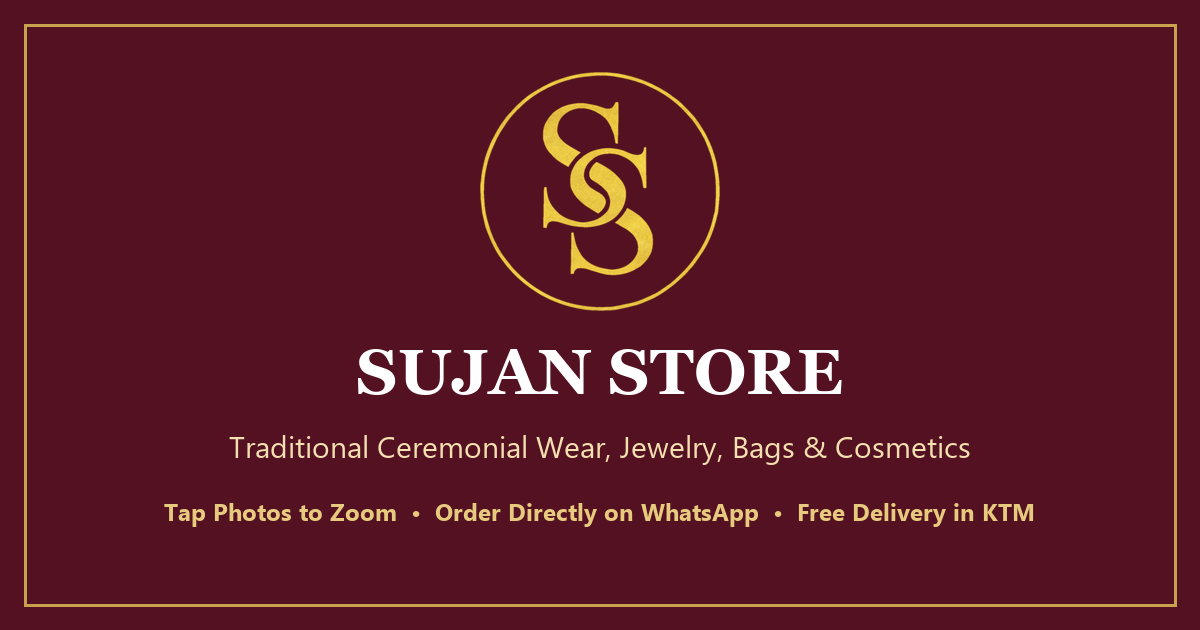
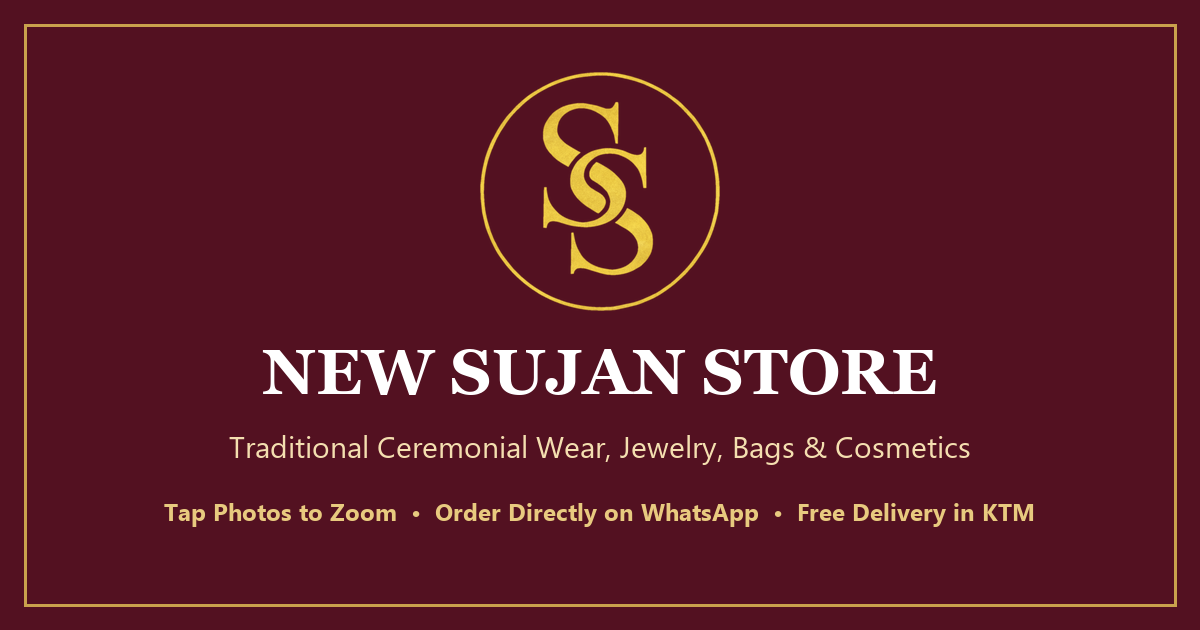
Rename store to New Sujan Store

Changed region(s): [[0.2158, 0.5429, 0.8017, 0.6333]]

diff --git a/index.html b/index.html
@@ -3,7 +3,7 @@
 <head>
 <meta charset="UTF-8" />
 <meta name="viewport" content="width=device-width, initial-scale=1.0" />
-<title>Sujan Store — Product Catalog</title>
+<title>New Sujan Store — Product Catalog</title>
 <meta name="description" content="Shop authentic Nepali ceremonial wear, Annaprasan Jari Malas, Makhmal bags, bridal sets, and cosmetics. Tap photos to zoom and order directly on WhatsApp." />
 <link rel="icon" type="image/png" href="favicon.png" />
 <link rel="apple-touch-icon" href="favicon.png" />
@@ -16,14 +16,14 @@
   gtag("js", new Date());
 </script>
 <meta property="og:type" content="website" />
-<meta property="og:title" content="Sujan Store — Official Product Catalog" />
+<meta property="og:title" content="New Sujan Store — Official Product Catalog" />
 <meta property="og:description" content="Traditional Ceremonial Wear, Jewelry, Bags &amp; Cosmetics • Free Delivery Inside Kathmandu Valley" />
 <meta property="og:url" content="https://rojansthapit.github.io/sujan-store-catalog/" />
 <meta property="og:image" content="https://rojansthapit.github.io/sujan-store-catalog/preview.png" />
 <meta property="og:image:width" content="1200" />
 <meta property="og:image:height" content="630" />
 <meta name="twitter:card" content="summary_large_image" />
-<meta name="twitter:title" content="Sujan Store — Official Product Catalog" />
+<meta name="twitter:title" content="New Sujan Store — Official Product Catalog" />
 <meta name="twitter:description" content="Traditional Ceremonial Wear, Jewelry, Bags &amp; Cosmetics • Free Delivery Inside Kathmandu Valley" />
 <meta name="twitter:image" content="https://rojansthapit.github.io/sujan-store-catalog/preview.png" />
 <link rel="preconnect" href="https://fonts.googleapis.com" />
@@ -1568,10 +1568,10 @@
   <div class="header-inner">
     <div class="brand">
       <div class="brand-logo-wrap">
-        <img src="logo.png" alt="Sujan Store" onerror="this.style.display='none'" />
+        <img src="logo.png" alt="New Sujan Store" onerror="this.style.display='none'" />
       </div>
       <div>
-        <h1>Sujan Store</h1>
+        <h1>New Sujan Store</h1>
         <small>Traditional &amp; Ceremonial Boutique</small>
       </div>
     </div>
@@ -1676,9 +1676,9 @@
 <section class="info-section" id="about-contact">
   <div class="info-grid">
     <div class="info-block">
-      <h3>About Sujan Store</h3>
+      <h3>About New Sujan Store</h3>
       <p>
-        Sujan Store is a Kathmandu-based boutique dedicated to authentic Nepali ceremonial wear and
+        New Sujan Store is a Kathmandu-based boutique dedicated to authentic Nepali ceremonial wear and
         festive essentials. From handcrafted Annaprasan Jari Malas, bridal Ghumto &amp; Nariwol sets,
         and embroidered Makhmal bags to traditional Dhago, bangles, and cosmetics — every piece is
         curated for weddings, Bratabandha, Pasni, and special cultural celebrations.
@@ -1731,10 +1731,10 @@
 
 <footer class="site-footer">
   <div class="footer-inner">
-    <img class="footer-logo" src="logo.png" alt="Sujan Store" onerror="this.style.display='none'" />
-    <h3 class="footer-brand">Sujan Store</h3>
+    <img class="footer-logo" src="logo.png" alt="New Sujan Store" onerror="this.style.display='none'" />
+    <h3 class="footer-brand">New Sujan Store</h3>
     <p class="footer-sub">Cash on Delivery Available &nbsp;•&nbsp; Free Delivery Inside Kathmandu Valley &nbsp;•&nbsp; Nationwide Shipping</p>
-    <div class="footer-copy">© Sujan Store, Kathmandu, Nepal • WhatsApp: +977 9851237839</div>
+    <div class="footer-copy">© New Sujan Store, Kathmandu, Nepal • WhatsApp: +977 9851237839</div>
   </div>
 </footer>
 
@@ -2403,8 +2403,8 @@ function shareQuickViewProduct() {
   const shareUrl = `${base}?item=${encodeURIComponent(qvProduct.code)}`;
   if (navigator.share) {
     navigator.share({
-      title: `${qvProduct.name} — Sujan Store`,
-      text: `Check out ${qvProduct.name} (${qvProduct.code}) at Sujan Store`,
+      title: `${qvProduct.name} — New Sujan Store`,
+      text: `Check out ${qvProduct.name} (${qvProduct.code}) at New Sujan Store`,
       url: shareUrl,
     }).catch(() => {});
   } else {
@@ -2513,7 +2513,7 @@ function buildOrderMessage() {
   }
 
   let total = 0;
-  const lines = ["*New Order — Sujan Store*", ""];
+  const lines = ["*New Order — New Sujan Store*", ""];
   entries.forEach(([code, qty], idx) => {
     const p = PRODUCTS.find(x => x.code === code);
     const sub = p.price > 0 ? p.price * qty : 0;
@@ -2556,7 +2556,7 @@ function sendOrderEmail(msg) {
 
   let total = 0;
   const payload = {
-    _subject: `New Order — Sujan Store (${name})`,
+    _subject: `New Order — New Sujan Store (${name})`,
     _cc: ORDER_CC_EMAILS,
     _template: "table",
     _captcha: "false",
